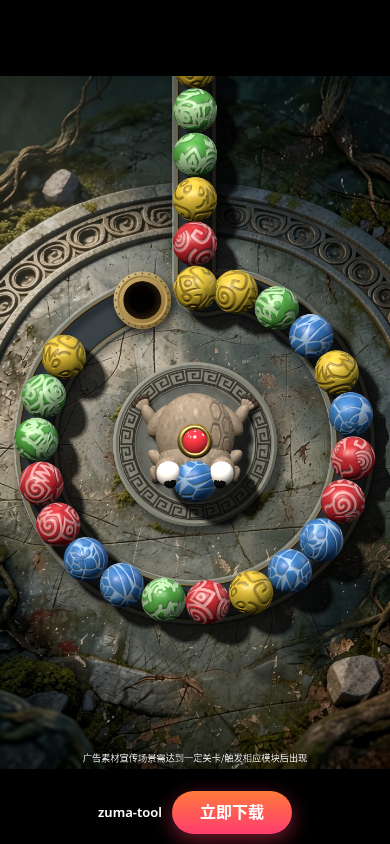
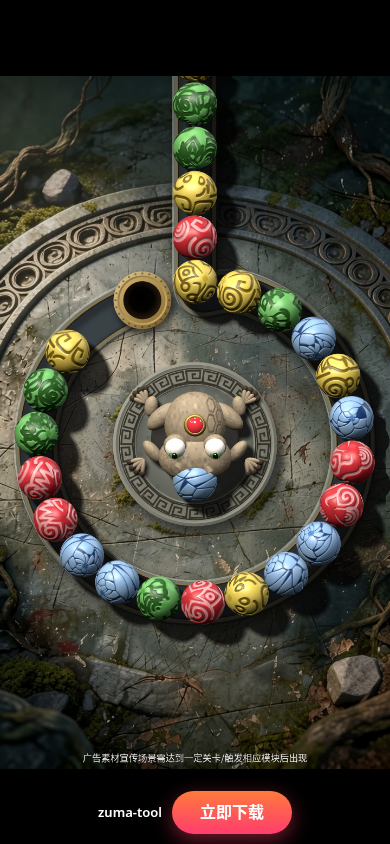
README v1.0.1 notes

diff --git a/README.md b/README.md
@@ -27,3 +27,12 @@ npm run shots          # 截图 + 与参考帧对比 screenshots/compare_*.png
 - 自动通关 AI 不是每局必胜：默认参数下 20 个种子约 15/20 通关（见 `npm test` 输出）。
 - AE 里球和青蛙是离屏渲染的静态 PNG，没有花纹滚动效果；3D GLB 不含 2D 特效 / FAIL 徽章 / 文字 / 手指。
 - 青蛙造型、球面花纹和参考视频只是接近，不是一模一样。
+
+## 更新记录
+### v1.0.1
+- 修复穿模：球链间距按**直线（弦长）**计算（弯道上弧长 > 弦长），推进 / 插入 / 回拉 / 连击 / 失败吸入全程生效；插入的新球在缺口张开前被挤在链外侧并滑入；正在消除的球仍占位并会被推开。`npm test` 含逐帧两两圆心距检查（≥ 0.98 × 半径和）。碰撞半径默认 1.0 球径。
+- 石青蛙按参考近景重做：宽扁大头、嘴唇半包口中球、白色大眼 + 绿虹膜、背部小圆宝石（显示下一颗颜色）、四肢外张长趾、眨眼。
+- 消除特效按参考：球先变半透明“气泡”（虚线深色描边）→ 同色柔和光雾 + 大量深色碎片；默认关闭液体飞溅块。
+- 球花纹：红球浅色花纹，绿 / 黄 / 蓝为浅底深色刻纹（参考如此）。
+- FAIL 徽章改为正体粗字，弹出后球链定格（参考效果）。
+- 设置版本 v2：旧默认值自动换成新默认，用户改过的值保留。
